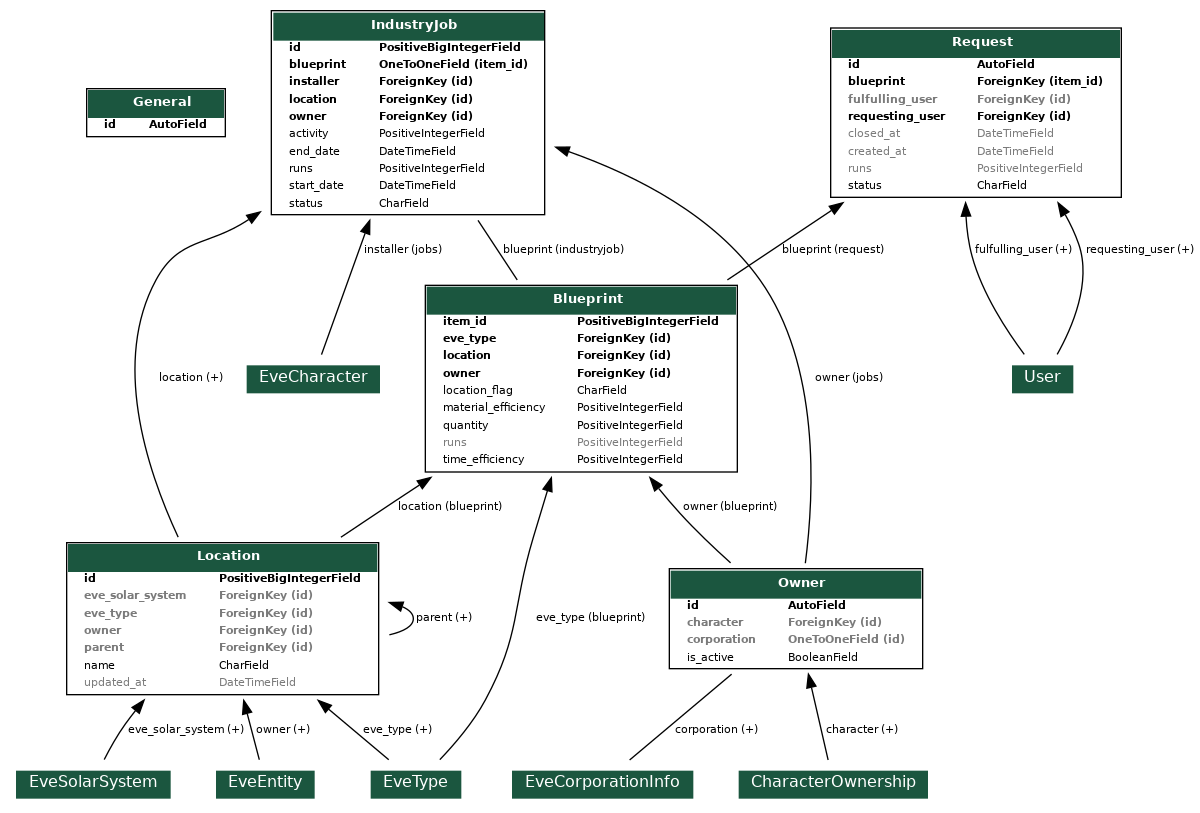
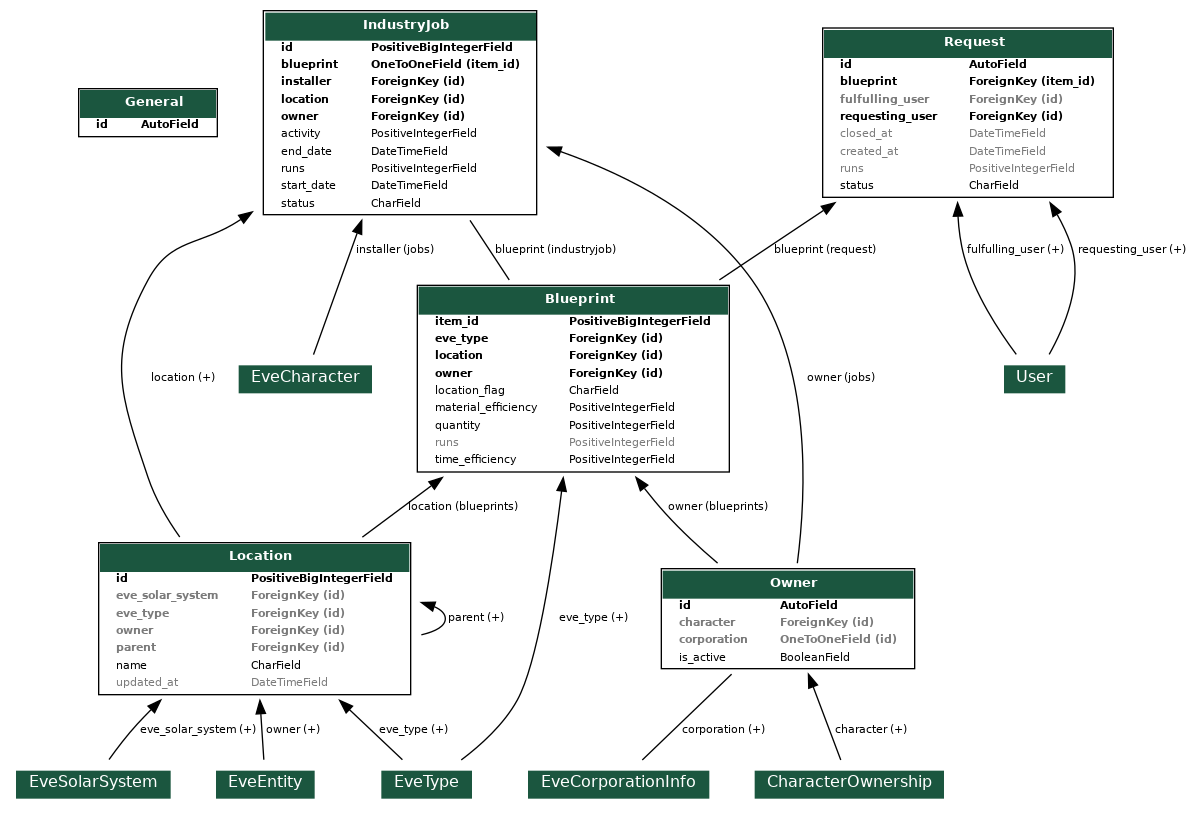
Remove pseudo structure identification

diff --git a/blueprints/models.py b/blueprints/models.py
@@ -137,13 +137,13 @@ class Owner(models.Model):
                 else:
                     asset_locations[location_id] = [asset["item_id"]]
 
-        for location in list(asset_locations.keys()):
-            asset = assets_by_id[location]
+        for location_id in asset_locations.keys():
+            asset = assets_by_id[location_id]
             parent_location = asset["location_id"]
             parent = get_or_create_location_async(parent_location, token=token)
             eve_type, _ = EveType.objects.get_or_create_esi(id=asset["type_id"])
             Location.objects.update_or_create(
-                id=location, defaults={"parent": parent, "eve_type": eve_type}
+                id=location_id, defaults={"parent": parent, "eve_type": eve_type}
             )
 
     def update_blueprints_esi(self):
@@ -615,7 +615,6 @@ class Location(models.Model):
     _SOLAR_SYSTEM_ID_END = 33_000_000
     _STATION_ID_START = 60_000_000
     _STATION_ID_END = 64_000_000
-    _STRUCTURE_ID_START = 1_000_000_000_000
 
     id = models.PositiveBigIntegerField(
         primary_key=True,
@@ -700,10 +699,6 @@ class Location(models.Model):
     def is_station(self) -> bool:
         return self.is_station_id(self.id)
 
-    @property
-    def is_structure(self) -> bool:
-        return self.is_structure_id(self.id)
-
     @classmethod
     def is_solar_system_id(cls, location_id: int) -> bool:
         return cls._SOLAR_SYSTEM_ID_START <= location_id <= cls._SOLAR_SYSTEM_ID_END
@@ -711,10 +706,6 @@ class Location(models.Model):
     @classmethod
     def is_station_id(cls, location_id: int) -> bool:
         return cls._STATION_ID_START <= location_id <= cls._STATION_ID_END
-
-    @classmethod
-    def is_structure_id(cls, location_id: int) -> bool:
-        return location_id >= cls._STRUCTURE_ID_START
 
     def full_qualified_name(self) -> str:
         """Return the full qualified name of this location."""

diff --git a/blueprints/managers.py b/blueprints/managers.py
@@ -226,7 +226,7 @@ class LocationManagerBase(models.Manager):
                 id=id, station=station
             )
 
-        elif self.model.is_structure_id(id):
+        else:  # structure or random asset
             if update_async:
                 location, created = self._structure_update_or_create_esi_async(
                     id=id, token=token
@@ -235,11 +235,6 @@ class LocationManagerBase(models.Manager):
                 location, created = self.structure_update_or_create_esi(
                     id=id, token=token
                 )
-        else:
-            logger.warning(
-                "%s: Creating empty location for ID not matching any known pattern:", id
-            )
-            location, created = self.get_or_create(id=id)
 
         return location, created
 